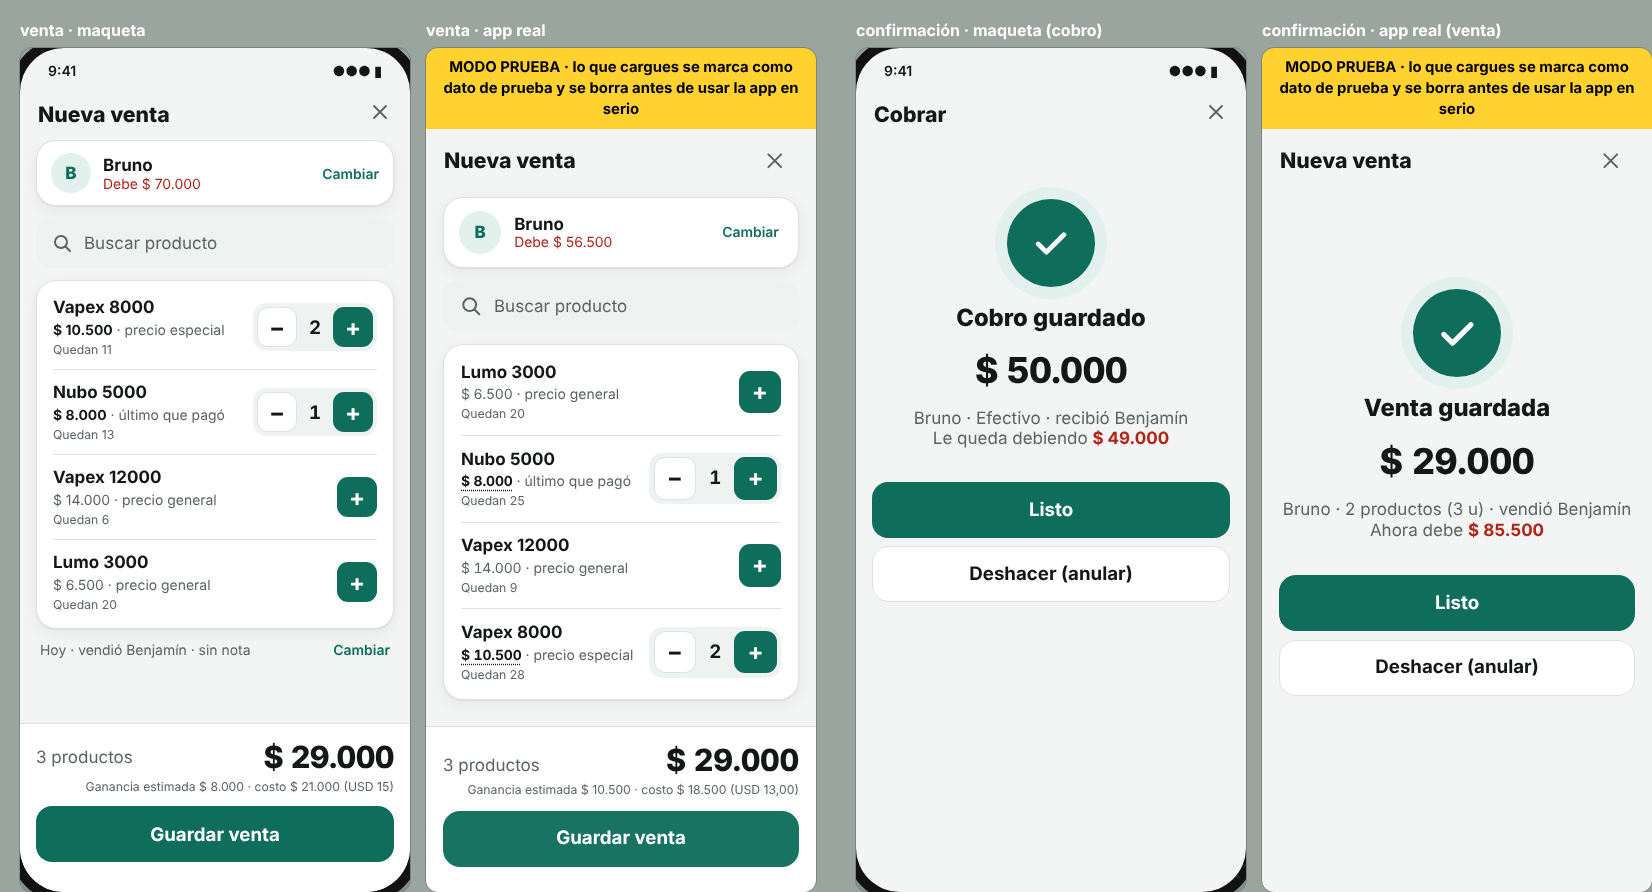
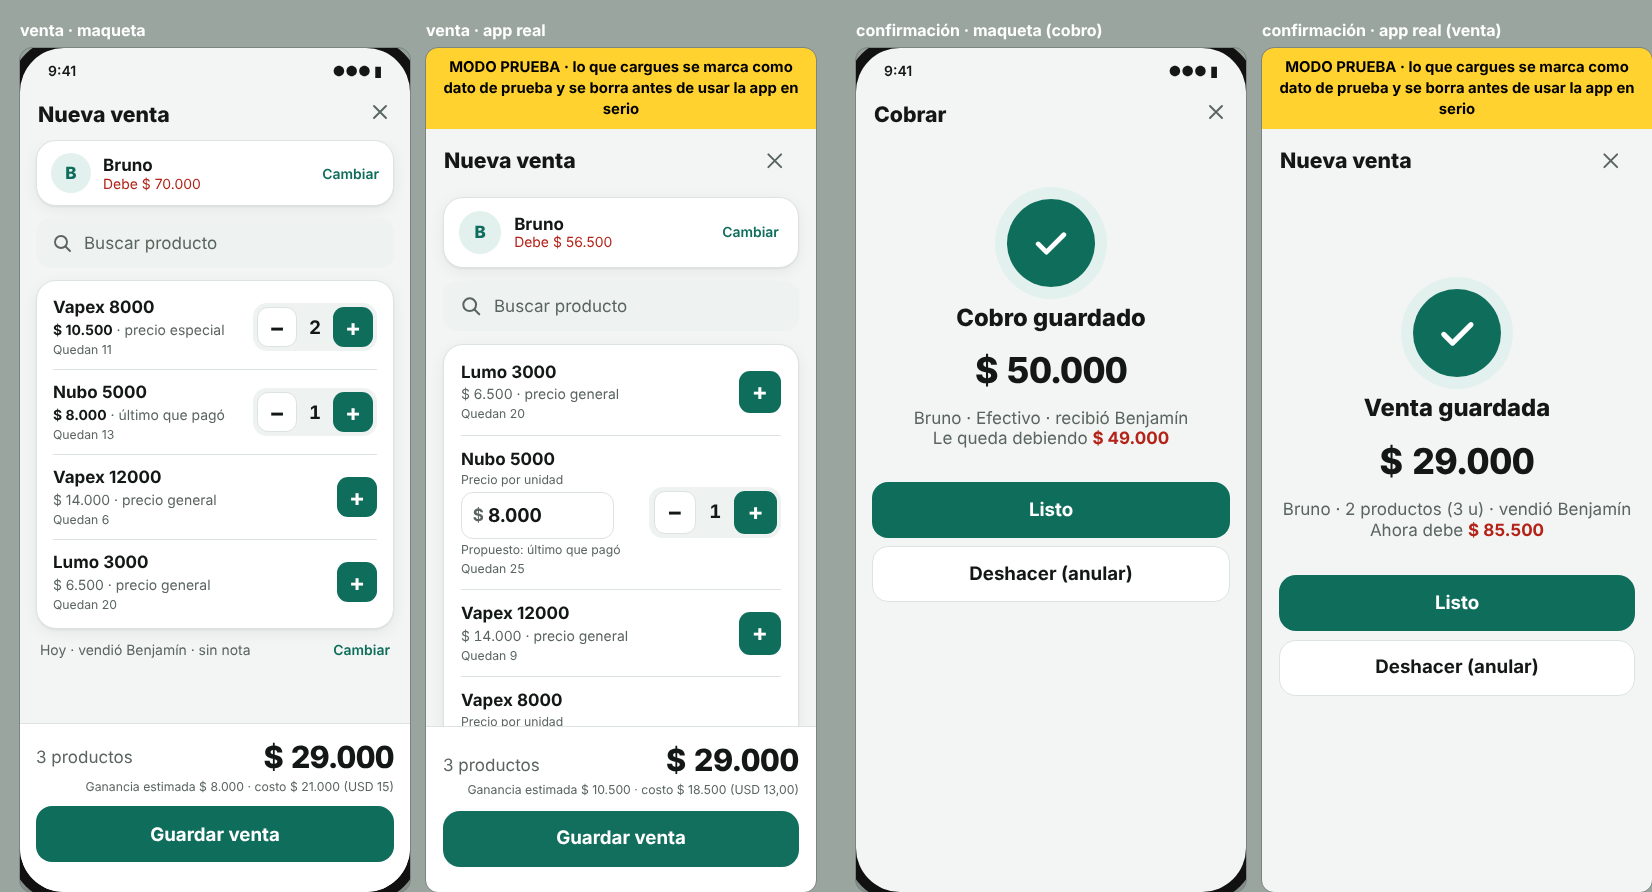
Venta: caja de precio siempre visible, como antes
Pedido de los socios: en vez de tocar el precio subrayado para cambiarlo,
cada producto agregado muestra directamente una caja "Precio por unidad"
con el precio sugerido (especial, último que pagó o general) y debajo
"Propuesto: ...". Al tocar la caja se selecciona el número para tipear
encima. La prueba de humo tipea un precio en la caja y verifica que la
venta se guarde con ese precio.

Claude-Session: https://claude.ai/code/session_01BLJ66x7iPRdPPukuWFw9pQ

Changed region(s): [[0.2778, 0.5146, 0.4013, 0.8173], [0.4322, 0.5146, 0.4939, 0.7567]]

diff --git a/src/app/(app)/ventas/nueva/FormularioVenta.tsx b/src/app/(app)/ventas/nueva/FormularioVenta.tsx
@@ -33,7 +33,6 @@ export function FormularioVenta({
   const [busquedaCliente, setBusquedaCliente] = useState("");
   const [busquedaProducto, setBusquedaProducto] = useState("");
   const [items, setItems] = useState<ItemCarrito[]>([]);
-  const [editandoPrecio, setEditandoPrecio] = useState<string | null>(null);
   const [opciones, setOpciones] = useState(false);
   const [fecha, setFecha] = useState(hoy);
   const [vendidoPor, setVendidoPor] = useState(socioActual);
@@ -207,31 +206,28 @@ export function FormularioVenta({
                 <li key={p.id} className="flex items-center justify-between gap-3 py-3">
                   <div className="flex min-w-0 flex-col gap-1">
                     <span className="font-bold">{p.nombre}</span>
-                    <span className="text-[0.82rem] text-texto-suave">
-                      {item && editandoPrecio === p.id ? (
-                        <input
-                          autoFocus
-                          inputMode="decimal"
-                          value={item.precio}
-                          onChange={(e) => cambiarPrecio(p.id, e.target.value)}
-                          onBlur={() => setEditandoPrecio(null)}
-                          aria-label={`Precio de ${p.nombre}`}
-                          className="w-28 rounded-lg border border-acento bg-superficie px-2 py-1 text-base font-bold text-texto"
-                        />
-                      ) : item ? (
-                        <button
-                          type="button"
-                          onClick={() => setEditandoPrecio(p.id)}
-                          aria-label={`Cambiar el precio de ${p.nombre}`}
-                          className="num font-bold text-texto underline decoration-dotted underline-offset-4"
-                        >
-                          {item.precio ? `$ ${item.precio}` : "Poner precio"}
-                        </button>
-                      ) : (
-                        <span className="num">{propuesto.precio !== null ? formatearPesos(propuesto.precio) : "Sin precio"}</span>
-                      )}{" "}
-                      · {TEXTO_ORIGEN[origen]}
-                    </span>
+                    {item ? (
+                      // Caja de precio siempre visible (como antes): viene con el precio sugerido y se tipea directo.
+                      <label className="flex flex-col gap-1">
+                        <span className="text-[0.72rem] text-texto-suave">Precio por unidad</span>
+                        <span className={`flex h-11 w-36 items-center gap-1 rounded-[12px] border bg-superficie px-2.5 ${fila?.precioError ? "border-peligro" : "border-borde"}`}>
+                          <span className="font-bold text-texto-suave">$</span>
+                          <input
+                            inputMode="decimal"
+                            value={item.precio}
+                            onChange={(e) => cambiarPrecio(p.id, e.target.value)}
+                            onFocus={(e) => e.target.select()}
+                            aria-label={`Precio de ${p.nombre}`}
+                            className="num w-full min-w-0 bg-transparent text-lg font-bold text-texto outline-none"
+                          />
+                        </span>
+                        <span className="text-[0.72rem] text-texto-suave">Propuesto: {TEXTO_ORIGEN[origen]}</span>
+                      </label>
+                    ) : (
+                      <span className="text-[0.82rem] text-texto-suave">
+                        <span className="num">{propuesto.precio !== null ? formatearPesos(propuesto.precio) : "Sin precio"}</span> · {TEXTO_ORIGEN[origen]}
+                      </span>
+                    )}
                     <span className="text-[0.72rem] text-texto-suave">Quedan {p.unidades}</span>
                     {fila?.precioError && <span className="text-[0.72rem] text-peligro">{fila.precioError}</span>}
                   </div>
